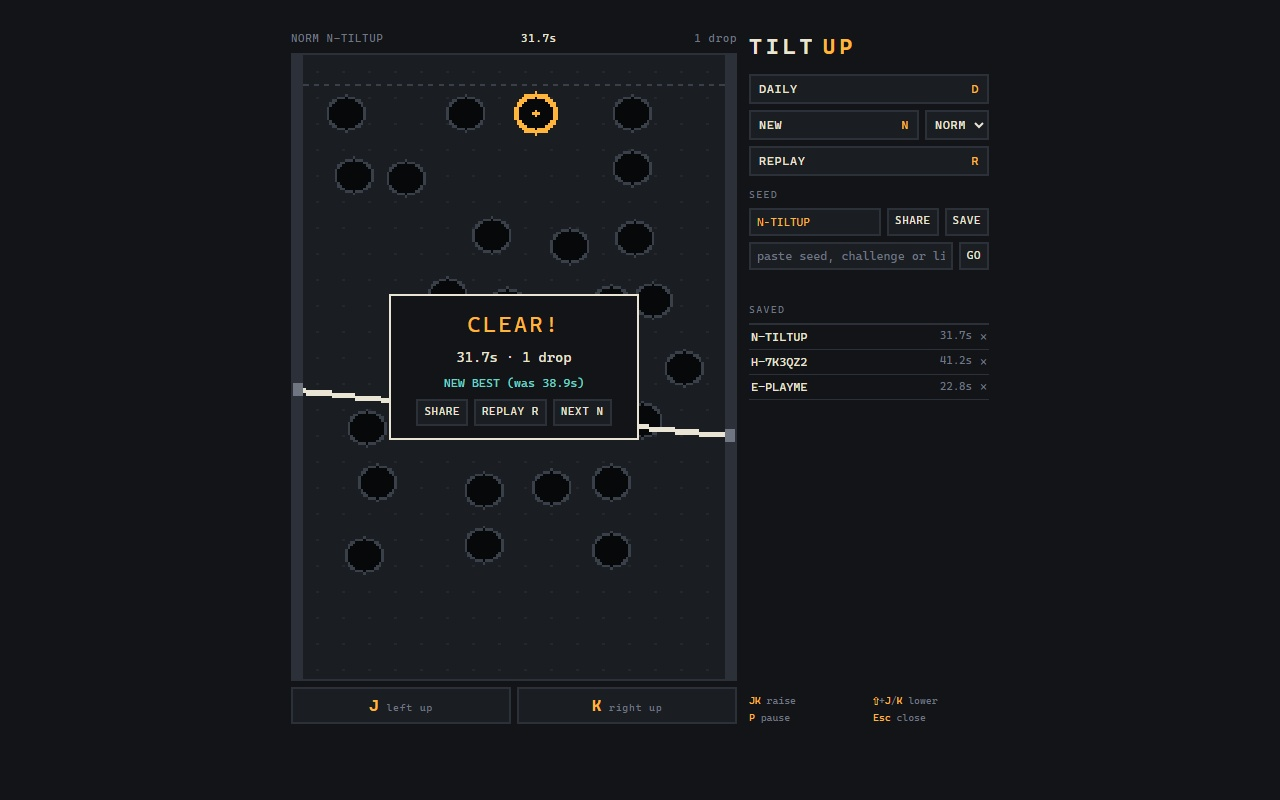
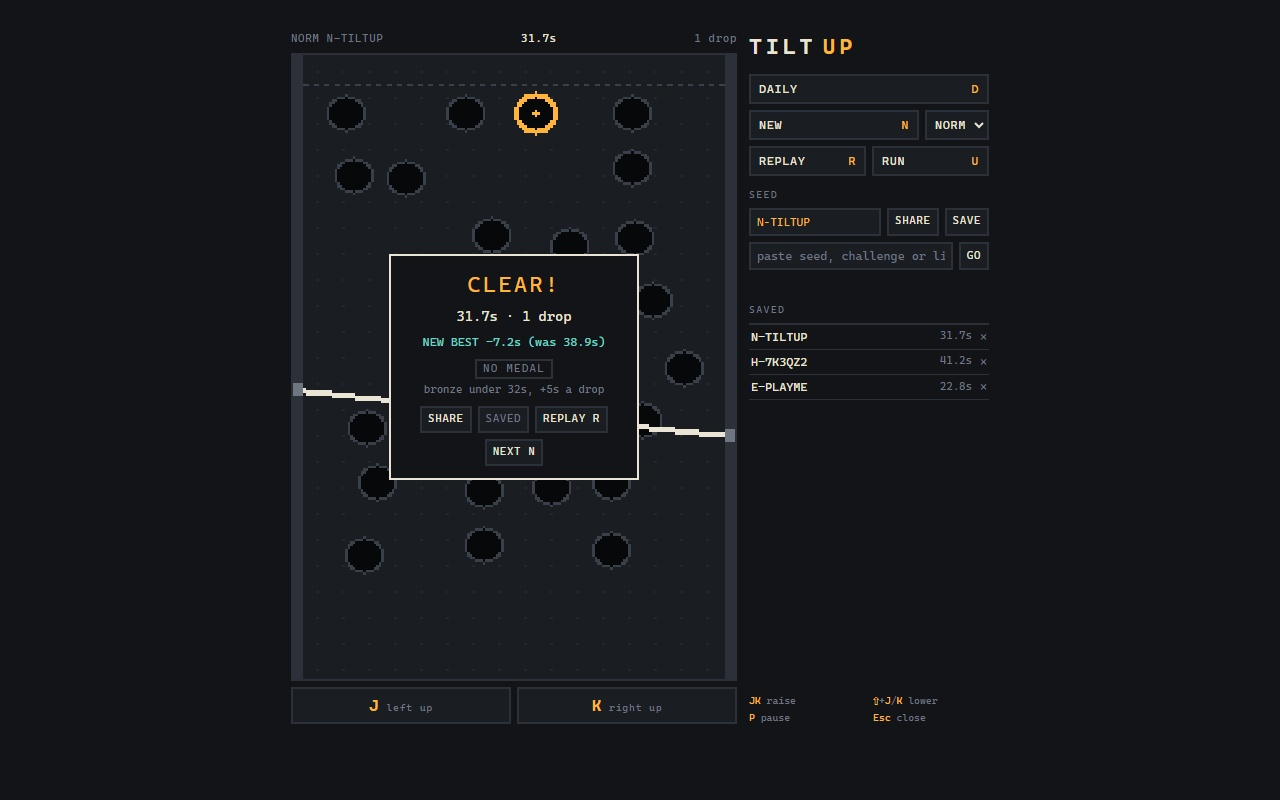
Update listing and screenshots

diff --git a/store/LISTING.md b/store/LISTING.md
@@ -8,16 +8,16 @@
 **Description:**
 
 ```
-Tilt Up is a small, quiet arcade game that opens right from your toolbar.
+Tilt Up is a classic arcade game that opens right from your toolbar.
 
-Hold J to raise the left end of the bar and K to raise the right. Roll the ball up the board,
-steer it around the holes, and drop it into the lit pocket at the top. Don't push the bar
-into the ceiling. A level takes about a minute.
+Hold J to raise the left end of the bar and K to raise the right. Roll the ball up the board, steer it around the holes, and drop it into the lit pocket at the top. 
 
 • Endless levels in three difficulties
+• Run mode: clear levels until you top out!
+• Gold, silver and bronze medals for fast clears
 • A new Daily level every day
-• Share a level's code and see who clears it faster
-• Saves your best time for each level
+• Share a level or run code and compete with others
+• Saves your best times and picks up where you left off
 • Works offline. No account, no sound
 
 Privacy: Tilt Up collects no data. Your progress is stored only on your device.
